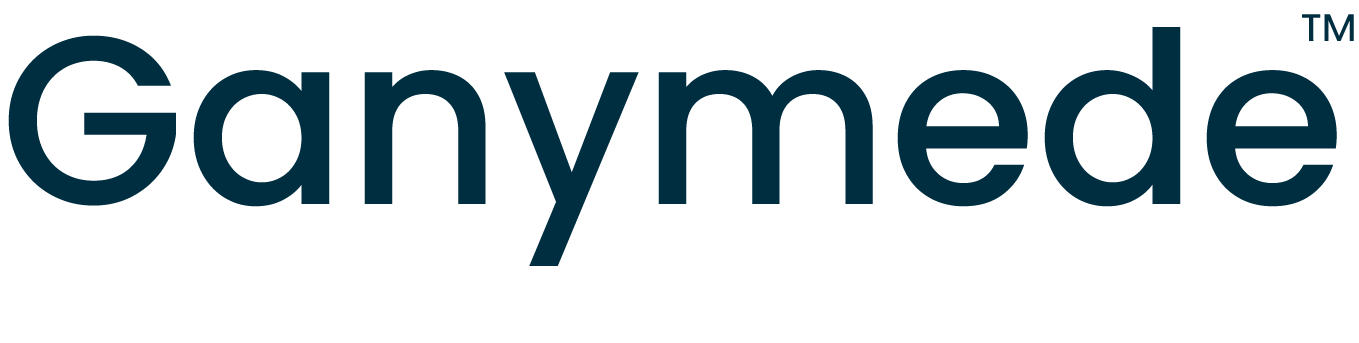
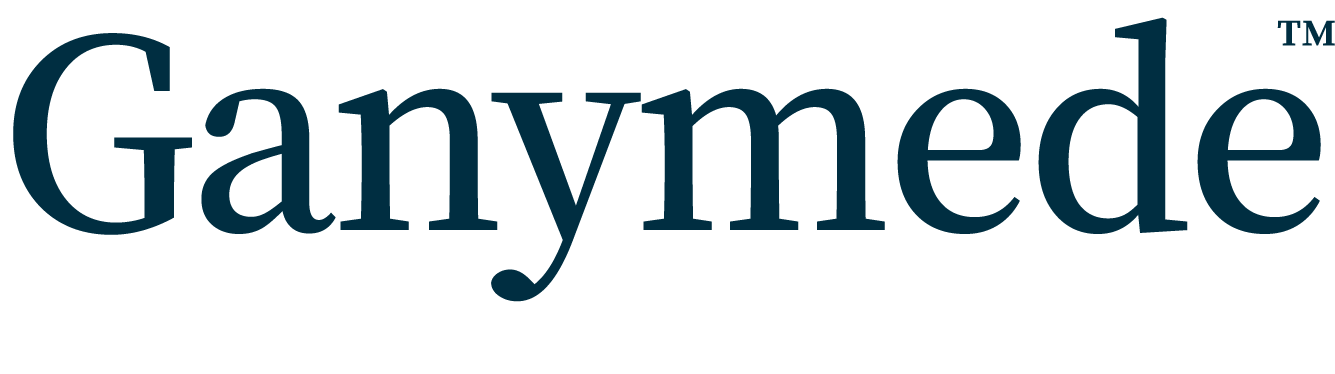
font update

Changed region(s): [[0.0, 0.0292, 1.0, 0.8163], [0.9521, 0.0292, 1.0, 0.1458]]

diff --git a/css/style.css b/css/style.css
@@ -1,6 +1,6 @@
-@import url("https://fonts.googleapis.com/css2?family=Poppins:wght@300;500&display=swap");
+@import url("https://fonts.googleapis.com/css2?family=DM+Serif+Display:ital@0;1&display=swap");
 * {
-  font-family: "Poppins", sans-serif;
+  font-family: "DM Serif Display", serif;
   margin: 0;
   padding: 0;
   scroll-padding-top: 2rem;
@@ -94,7 +94,7 @@ header {
 }
 .cart-product-title {
   font-size: 1rem;
-  text-transform: uppercase;
+  font-style: italic;
 }
 .cart-price {
   font-weight: 500;
@@ -185,7 +185,7 @@ header {
 .product-title {
   font-size: 1.1rem;
   font-weight: 600;
-  text-transform: uppercase;
+  font-style: italic;
   margin-bottom: 0.5rem;
 }
 .price {

diff --git a/index.html b/index.html
@@ -48,7 +48,7 @@
     </header>
     <div class="hero"><img src="./img/HERO.jpg" /></div>
     <section class="shop container">
-      <h2 class="section-title">Bags</h2>
+      <h2 class="section-title">Portable Installation Art</h2>
       <div class="shop-content">
         <div class="product-box">
           <div>
